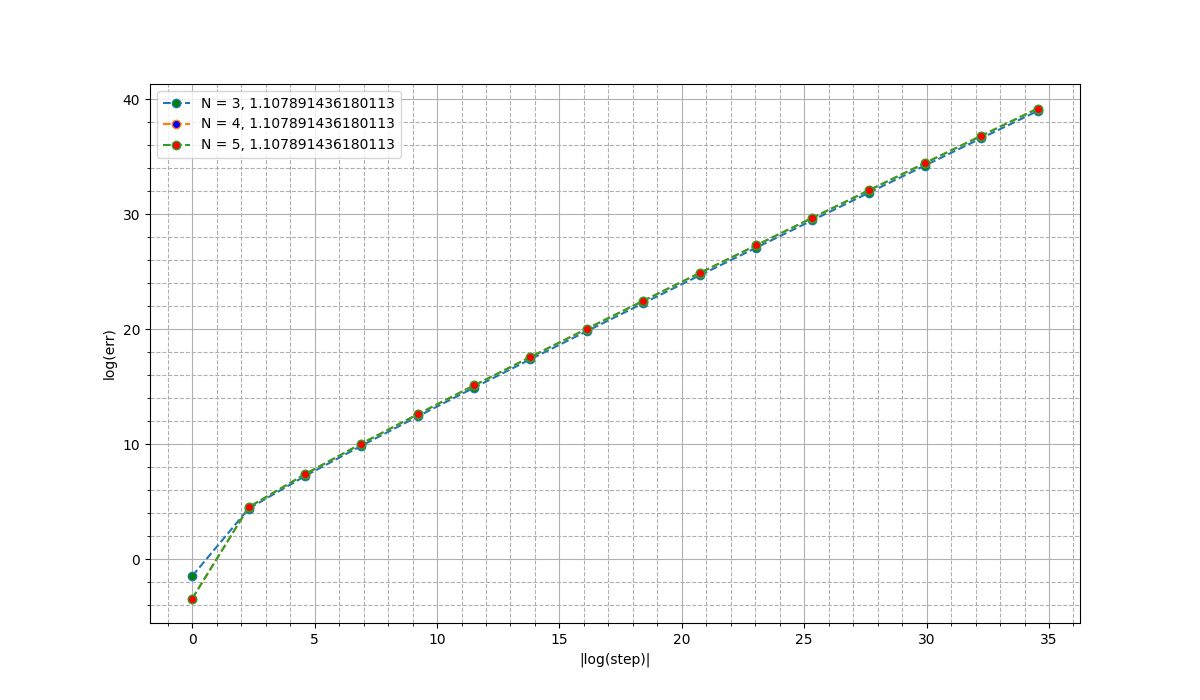
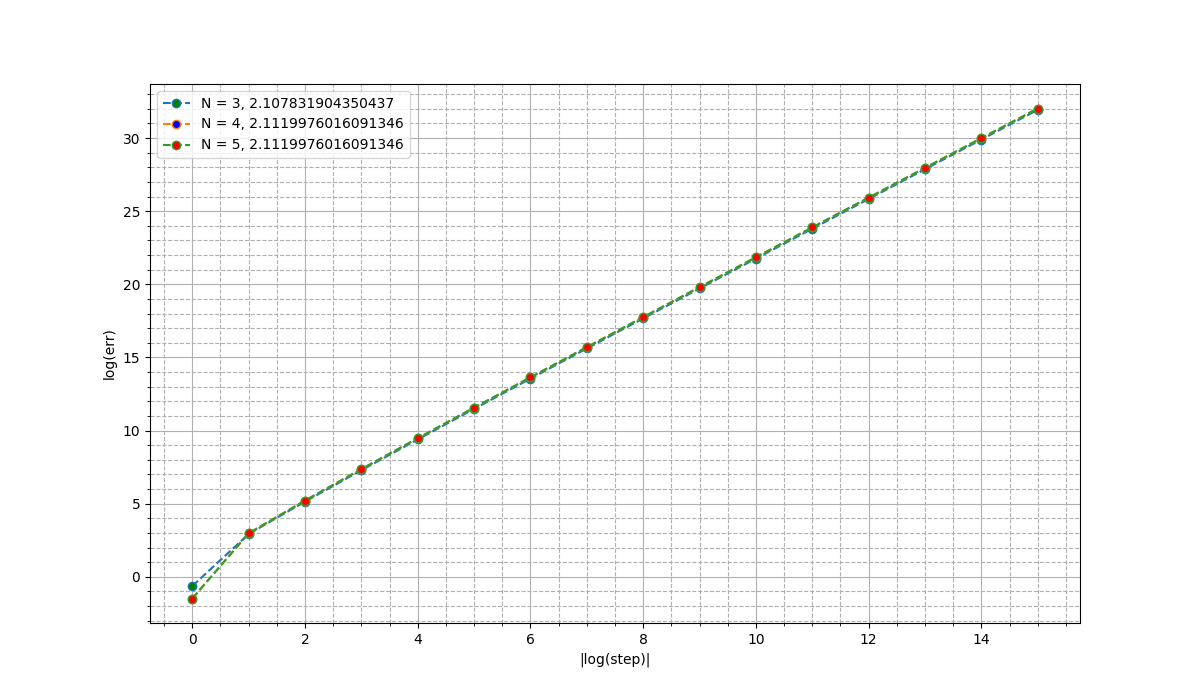
-a

diff --git a/py/NumDiff/main.py b/py/NumDiff/main.py
@@ -8,14 +8,15 @@ def grafik():
         line1 = [float(i) for i in lines[0].split()]
         line2 = [float(i) for i in lines[1].split()]
         line3 = [float(i) for i in lines[2].split()]
+
         h = []
         h.append(1.)
         for i in range(15):
             h.append(h[-1] * 0.1)
-    h = np.array(h, dtype = float)
-    line1 = np.array(line1, dtype= float)
-    line2 = np.array(line2, dtype= float)
-    line3 = np.array(line3, dtype= float)
+    h = np.array(h, dtype=float)
+    line1 = np.array(line1, dtype=float)
+    line2 = np.array(line2, dtype=float)
+    line3 = np.array(line3, dtype=float)
 
     plt.figure(figsize=(12, 7))
     plt.minorticks_on()
@@ -27,9 +28,12 @@ def grafik():
         linestyle='--'
     )
 
-    plt.plot(abs(np.log(h)), np.log(line1), linestyle='dashed', marker='o', markerfacecolor='green', label=f'N = 3, {abs(np.log(line1[4]) - np.log(line1[3]))/abs(np.log(h[4])-np.log(h[3]))}')
-    plt.plot(abs(np.log(h)), np.log(line2), linestyle='dashed', marker='o', markerfacecolor='blue', label=f'N = 4, {abs(np.log(line1[4]) - np.log(line1[3]))/abs(np.log(h[4])-np.log(h[3]))}')
-    plt.plot(abs(np.log(h)), np.log(line3), linestyle='dashed', marker='o', markerfacecolor='red', label=f'N = 5, {abs(np.log(line1[4]) - np.log(line1[3]))/abs(np.log(h[4])-np.log(h[3]))}')
+    plt.plot(abs(np.log10(h)), np.log10(line1), linestyle='dashed', marker='o', markerfacecolor='green',
+             label=f'N = 3, {abs(np.log10(line1[4]) - np.log10(line1[3])) / (abs(np.log10(h[4])) - abs(np.log10(h[3])))}')
+    plt.plot(abs(np.log10(h)), np.log10(line2), linestyle='dashed', marker='o', markerfacecolor='blue',
+             label=f'N = 4, {abs(np.log10(line2[1]) - np.log10(line2[0])) / (abs(np.log10(h[1])) - abs(np.log10(h[0])))}')
+    plt.plot(abs(np.log10(h)), np.log10(line3), linestyle='dashed', marker='o', markerfacecolor='red',
+             label=f'N = 5, {abs(np.log10(line3[1]) - np.log10(line3[0])) / abs(np.log10(h[1]) - np.log10(h[0]))}')
 
     plt.xlabel("|log(step)|")
     plt.ylabel(r"log(err)")
@@ -38,20 +42,22 @@ def grafik():
     plt.savefig("basic.png")
     plt.show()
 
+
 def grafik2():
     with open('errAdvanced.txt', 'r') as errFile:
         lines = [i for i in errFile.read().split('\n')]
         line1 = [float(i) for i in lines[0].split()]
         line2 = [float(i) for i in lines[1].split()]
         line3 = [float(i) for i in lines[2].split()]
+        print(line1)
         h = []
         h.append(1.)
         for i in range(15):
             h.append(h[-1] * 0.1)
-    h = np.array(h, dtype = float)
-    line1 = np.array(line1, dtype= float)
-    line2 = np.array(line2, dtype= float)
-    line3 = np.array(line3, dtype= float)
+    h = np.array(h, dtype=float)
+    line1 = np.array(line1, dtype=float)
+    line2 = np.array(line2, dtype=float)
+    line3 = np.array(line3, dtype=float)
 
     plt.figure(figsize=(12, 7))
     plt.minorticks_on()
@@ -63,9 +69,12 @@ def grafik2():
         linestyle='--'
     )
 
-    plt.plot(abs(np.log(h)), np.log(line1), linestyle='dashed', marker='o', markerfacecolor='green', label=f'N = 3, {abs(np.log(line1[4]) - np.log(line1[3]))/abs(np.log(h[4])-np.log(h[3]))}')
-    plt.plot(abs(np.log(h)), np.log(line2), linestyle='dashed', marker='o', markerfacecolor='blue', label=f'N = 4, {abs(np.log(line1[4]) - np.log(line1[3]))/abs(np.log(h[4])-np.log(h[3]))}')
-    plt.plot(abs(np.log(h)), np.log(line3), linestyle='dashed', marker='o', markerfacecolor='red', label=f'N = 5, {abs(np.log(line1[4]) - np.log(line1[3]))/abs(np.log(h[4])-np.log(h[3]))}')
+    plt.plot(abs(np.log10(h)), np.log10(line1), linestyle='dashed', marker='o', markerfacecolor='green',
+             label=f'N = 3, {abs(np.log10(line1[4]) - np.log10(line1[3])) / (abs(np.log10(h[4])) - abs(np.log10(h[3])))}')
+    plt.plot(abs(np.log10(h)), np.log10(line2), linestyle='dashed', marker='o', markerfacecolor='blue',
+             label=f'N = 4, {abs(np.log10(line2[4]) - np.log10(line2[3])) / (abs(np.log10(h[4])) - abs(np.log10(h[3])))}')
+    plt.plot(abs(np.log10(h)), np.log10(line3), linestyle='dashed', marker='o', markerfacecolor='red',
+             label=f'N = 5, {abs(np.log10(line3[4]) - np.log10(line3[3])) / abs(np.log10(h[4]) - np.log10(h[3]))}')
 
     plt.xlabel("|log(step)|")
     plt.ylabel(r"log(err)")
@@ -73,5 +82,7 @@ def grafik2():
     plt.legend()
     plt.savefig("advanced.png")
     plt.show()
+
+
 if __name__ == '__main__':
-    grafik2()
+    grafik()

diff --git a/src/SlaeSolvers.hpp b/src/SlaeSolvers.hpp
@@ -1,28 +1,37 @@
 #ifndef COMPMATH_SLAESOLVERS_HPP
 #define COMPMATH_SLAESOLVERS_HPP
-#include "Matrix.hpp"
+
+#include <algorithm>
+#include <stdexcept>
+#include <array>
+#include <cstdint>
+#include <cmath>
+#include <utility>
+
+template<typename RealType, std::uint64_t N>
+using Matrix = std::array<std::array<RealType, N>, N>;
 
 namespace solvers{
     namespace diny {
         template<typename RealType, std::uint32_t N>
-        std::pair<Matrix<RealType>, std::vector<RealType>> partialPivot(Matrix<RealType> matrix, std::vector<RealType> b) {
+        std::pair<Matrix<RealType, N>, std::array<RealType, N>> partialPivot(Matrix<RealType, N> matrix, std::array<RealType, N> b) {
             for (int i = 0; i < N; i++) {
                 int pivot_row = i;
                 for (int j = i + 1; j < N; j++) {
-                    if (std::abs(matrix(j, i)) > std::abs(matrix(pivot_row,i))) {
+                    if (std::abs(matrix[j][i]) > std::abs(matrix[pivot_row][i])) {
                         pivot_row = j;
                     }
                 }
                 if (pivot_row != i) {
                     for (int j = i; j < N; j++) {
-                        std::swap(matrix(i, j), matrix(pivot_row,j));
+                        std::swap(matrix[i][j], matrix[pivot_row][j]);
                     }
                     std::swap(b[i], b[pivot_row]);
                 }
                 for (int j = i + 1; j < N; j++) {
-                    double factor = matrix(j,i) / matrix(i,i);
+                    double factor = matrix[j][i] / matrix[i][i];
                     for (int k = i; k < N; k++) {
-                        matrix(j,k) -= factor * matrix(i, k);
+                        matrix[j][k] -= factor * matrix[i][k];
                     }
                     b[j]-=factor * b[i];
                 }
@@ -31,7 +40,7 @@ namespace solvers{
         }
 
         template<typename RealType, std::uint32_t N>
-        std::array<RealType, N> backSubstitute(const Matrix<RealType> &matrix, const std::vector<RealType> &b) {
+        std::array<RealType, N> backSubstitute(const Matrix<RealType, N> &matrix, const std::array<RealType, N> &b) {
             std::array<RealType, N> answ;
             for (int i = static_cast<int>(N) - 1; i >= 0; i--) {
                 double sum = 0;
@@ -40,18 +49,18 @@ namespace solvers{
                         sum += b[i] *answ[j];
                     }
                     else {
-                        sum += matrix(i, j) * answ[j];
+                        sum += matrix[i][j] * answ[j];
                     }
                 }
-                answ[i] = (b[i] - sum) / matrix(i, i);
+                answ[i] = (b[i] - sum) / matrix[i][i];
             }
             return answ;
         }
 
     }
     template<typename RealType, std::uint32_t N>
-    std::array<RealType, N> Gauss(const Matrix<RealType> &matrix, const std::vector<RealType> &b){
-        std::pair<Matrix<RealType>, std::vector<RealType>> temp_pair = diny::partialPivot<RealType, N>(matrix, b);
+    std::array<RealType, N> Gauss(const Matrix<RealType, N> &matrix, const std::array<RealType, N> &b){
+        std::pair<Matrix<RealType, N>, std::array<RealType, N>> temp_pair = diny::partialPivot<RealType, N>(matrix, b);
         return diny::backSubstitute<RealType, N>(temp_pair.first, temp_pair.second);
     }
 }

diff --git a/tests/NumDiffTest.cpp b/tests/NumDiffTest.cpp
@@ -7,9 +7,9 @@
 
 const std::string py_path = "/home/esaak/my_folder/CProjects/ComputationalMathematics/py";
 TEST(NumDiffTests, FirstBaseTest){
-    std::uint64_t N = 2;
-    std::array<double, 2> points = {-1, 1};
-    DerivativeCoef<double, 2> answ = calcDerivativeCoef(points);
+    constexpr std::uint64_t N = 2;
+    std::array<double, N> points = {-1, 1};
+    DerivativeCoef<double, N> answ = calcDerivativeCoef(points);
     ASSERT_EQ(answ.centralCoef, 0);
     std::cout<<answ.centralCoef<<"\n";
     ASSERT_EQ(answ.otherCoefs[0], -0.5);
@@ -29,7 +29,7 @@ TEST(NumDiffTests, SecondBaseTest){
 TEST(NumDiffTests, mainBaseTest){
     std::ofstream fileOut;
     fileOut.open(py_path + "/NumDiff/err.txt");
-    constexpr double x = 1;
+    constexpr double x = 1.;
     constexpr std::uint64_t N3 = 3;
     constexpr std::uint64_t N4 = 4;
     constexpr std::uint64_t N5 = 5;
@@ -44,6 +44,8 @@ TEST(NumDiffTests, mainBaseTest){
 
     DerivativeCoef<double, N3> answN3 = calcDerivativeCoef(pointsN3);
     double DN3 = answN3.centralCoef * std::exp(x);
+    std::cout<< answN3.centralCoef<<" ";
+    for(auto&& it: answN3.otherCoefs) std::cout<< it<<" ";
     for(auto&& it : h){
         for(std::uint64_t j = 0; j < pointsN3.size(); j++){
             DN3+=answN3.otherCoefs[j] * std::exp(x + pointsN3[j]*it);
@@ -54,11 +56,12 @@ TEST(NumDiffTests, mainBaseTest){
 
     DerivativeCoef<double, N4> answN4 = calcDerivativeCoef(pointsN4);
     double DN4 = answN4.centralCoef * std::exp(x);
+
     for(auto&& it : h){
         for(std::uint64_t j = 0; j < pointsN4.size(); j++){
             DN4+=answN4.otherCoefs[j] * std::exp(x + pointsN4[j]*it);
         }
-        fileOut<<std::abs(DN4/it - std::exp(x))<<" ";
+        fileOut<<std::abs(DN4/it - std::exp(x)+ std::exp(x)*1e-16/it)<<" ";
     }
     fileOut<<std::endl;
 
@@ -68,7 +71,7 @@ TEST(NumDiffTests, mainBaseTest){
         for(std::uint64_t j = 0; j < pointsN5.size(); j++){
             DN5+=answN5.otherCoefs[j] * std::exp(x + pointsN5[j]*it);
         }
-        fileOut<<std::abs(DN5/it - std::exp(x))<<" ";
+        fileOut<<std::abs(DN5/it - std::exp(x)+ std::exp(x)*1e-16/it)<<" ";
     }
     fileOut<<std::endl;
     fileOut.close();
@@ -108,7 +111,7 @@ TEST(NumDiffTests, mainAdvancedTest){
         for(std::uint64_t j = 0; j < pointsN3.size(); j++){
             DN3+=answN3.otherCoefs[j] * std::exp(x + pointsN3[j]*it);
         }
-        fileOut<<std::abs(DN3/it - std::exp(x))<<" ";
+        fileOut<<std::abs(DN3/std::pow(it, L) - std::exp(x))<<" ";
     }
     fileOut<<std::endl;
 
@@ -118,7 +121,7 @@ TEST(NumDiffTests, mainAdvancedTest){
         for(std::uint64_t j = 0; j < pointsN4.size(); j++){
             DN4+=answN4.otherCoefs[j] * std::exp(x + pointsN4[j]*it);
         }
-        fileOut<<std::abs(DN4/it - std::exp(x))<<" ";
+        fileOut<<std::abs(DN4/std::pow(it, L) - std::exp(x))<<" ";
     }
     fileOut<<std::endl;
 
@@ -128,7 +131,7 @@ TEST(NumDiffTests, mainAdvancedTest){
         for(std::uint64_t j = 0; j < pointsN5.size(); j++){
             DN5+=answN5.otherCoefs[j] * std::exp(x + pointsN5[j]*it);
         }
-        fileOut<<std::abs(DN5/it - std::exp(x))<<" ";
+        fileOut<<std::abs(DN5/std::pow(it, L) - std::exp(x))<<" ";
     }
     fileOut<<std::endl;
     fileOut.close();

diff --git a/src/NumDiff.hpp b/src/NumDiff.hpp
@@ -8,7 +8,6 @@ struct DerivativeCoef {
     std::array<RealType, N> otherCoefs;
 };
 
-
 constexpr std::uint64_t factorial(std::uint64_t n){
     std::uint64_t answ = 1;
     for(std::uint64_t i = 2; i <= n; i++){
@@ -19,15 +18,15 @@ constexpr std::uint64_t factorial(std::uint64_t n){
 
 template<typename RealType, std::uint64_t N>
 DerivativeCoef<RealType, N> calcDerivativeCoef(const std::array<RealType, N>& points) noexcept{
-    Matrix<RealType> matrix = Matrix<RealType>::zeros(N + 1, N + 1);
-    std::vector<RealType> b(N+1, RealType(0));
+    Matrix<RealType, N + 1> matrix;
+    std::array<RealType, N+1> b{};
     b[1] = RealType(1);
-    std::for_each_n(matrix.begin(), N + 1, [](auto& n){ n = static_cast<RealType>(1);});
+    std::for_each_n(matrix.begin()->begin(), N + 1, [](auto& n){ n = static_cast<RealType>(1);});
     for(std::uint64_t i = 0; i < N; i++){
-        matrix(i + 1,0) = 0;
+        matrix[i+1][0] = 0;
         for(std::uint64_t j = 0; j < N; j++){
-            matrix(i + 1, j + 1) = matrix(i, j + 1) * points[j];
-            matrix(i + 1, j + 1) /= (i + 1);
+            matrix[i + 1][j + 1] = matrix[i][j + 1] * points[j];
+            matrix[i + 1][j + 1] /= (i + 1);
         }
     }
     std::array<RealType, N + 1> gaussAnsw = solvers::Gauss<RealType, N + 1>(matrix, b);
@@ -39,15 +38,15 @@ DerivativeCoef<RealType, N> calcDerivativeCoef(const std::array<RealType, N>& po
 
 template<typename RealType, unsigned int N, unsigned int L>
 DerivativeCoef<RealType, N> calcDerivativeCoef(const std::array<RealType, N>& points) noexcept{
-    Matrix<RealType> matrix = Matrix<RealType>::zeros(N + 1, N + 1);
-    std::vector<RealType> b(N+1, RealType(0));
+    Matrix<RealType, N + 1> matrix;
+    std::array<RealType, N+1> b{};
     b[L] = RealType(1);
-    std::for_each_n(matrix.begin(), N + 1, [](auto& n){ n = static_cast<RealType>(1);});
+    std::for_each_n(matrix.begin()->begin(), N + 1, [](auto& n){ n = static_cast<RealType>(1);});
     for(std::uint64_t i = 0; i < N; i++){
-        matrix(i + 1,0) = 0;
+        matrix[i + 1][0] = 0;
         for(std::uint64_t j = 0; j < N; j++){
-            matrix(i + 1, j + 1) = matrix(i, j + 1) * points[j];
-            matrix(i + 1, j + 1) /= (i + 1);
+            matrix[i + 1][j + 1] = matrix[i][j + 1] * points[j];
+            matrix[i + 1][j + 1] /= (i + 1);
         }
     }
     std::array<RealType, N + 1> gaussAnsw = solvers::Gauss<RealType, N + 1>(matrix, b);

diff --git a/tests/MatrixSolversTests.cpp b/tests/MatrixSolversTests.cpp
@@ -4,13 +4,11 @@
 using namespace solvers;
 
 TEST(SolversTests, GaussTest){
-    std::vector<std::vector<double>> SimpleData{
-            {1., 0., 0.},
-            {0., 1., 0.},
-            {0., 0., 1.}
-    };
-    std::vector<double>SimpleB{1., 1., 1.};
-    Matrix SimpleMatrix(SimpleData);
+
+    std::array<double, 3>SimpleB{1., 1., 1.};
+    Matrix<double, 3> SimpleMatrix = {1., 0., 0.,
+                           0., 1., 0.,
+                           0., 0., 1.};
     std::array<double, 3>SimpleAnsw = Gauss<double, 3>(SimpleMatrix, SimpleB);
     std::cout<<"Simple test: ";
     for(auto&& it:SimpleAnsw){
@@ -19,13 +17,11 @@ TEST(SolversTests, GaussTest){
     }
     std::cout<<std::endl;
 
-    std::vector<std::vector<double>> SecondData{
-            {5., 8., -4.},
-            {6., 9., -5.},
-            {4., 7., -2.}
-    };
-    std::vector<double>SecondB{-18., -20., -15.};
-    Matrix SecondMatrix(SecondData);
+
+    std::array<double, 3>SecondB{-18., -20., -15.};
+    Matrix<double, 3> SecondMatrix = {5., 8., -4.,
+    6., 9., -5.,
+    4., 7., -2.};
     std::array<double, 3>SecondAnsw = Gauss<double, 3>(SecondMatrix, SecondB);
     std::cout<<"Second test: ";
     for(auto&& it:SecondAnsw){
